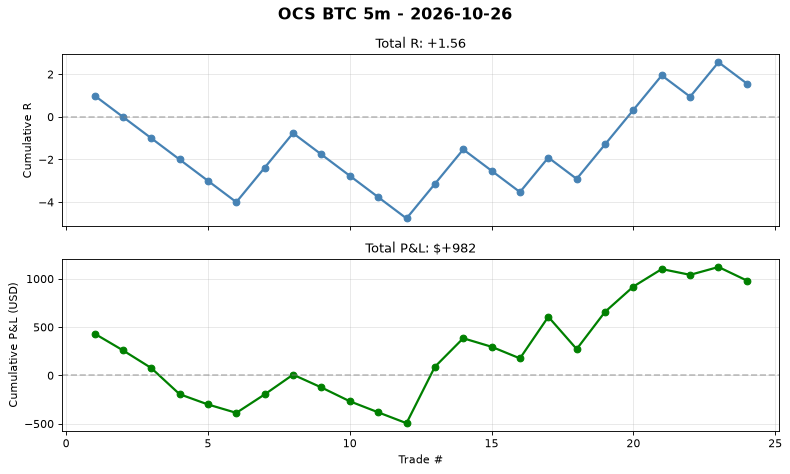
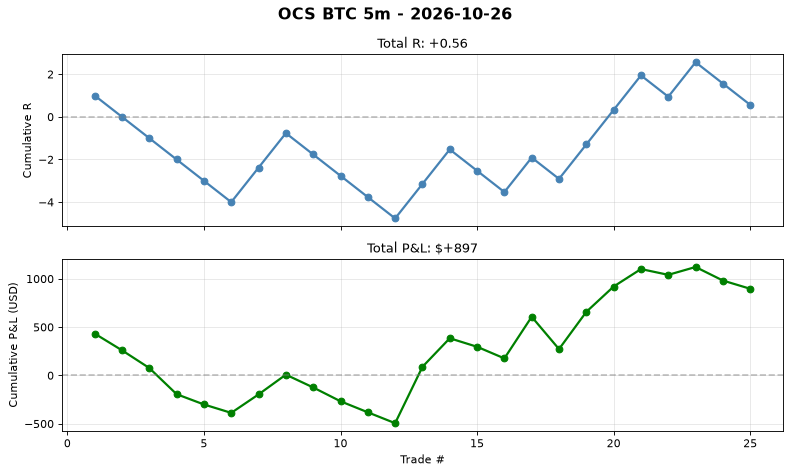
auto(ocs-btc): signal log 2026-10-25T17:18 trades=25

diff --git a/automation/reports/ocs_btc_5m/daily/2026-10-26.md b/automation/reports/ocs_btc_5m/daily/2026-10-26.md
@@ -2,4 +2,4 @@
 
 **No trades today.**
 
-Cumulative stats: 24 trades | WR 41.7% | avg R 0.065
+Cumulative stats: 25 trades | WR 40.0% | avg R 0.022
